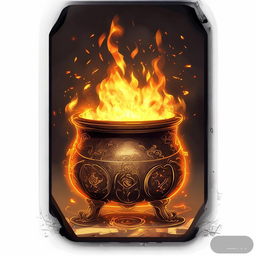
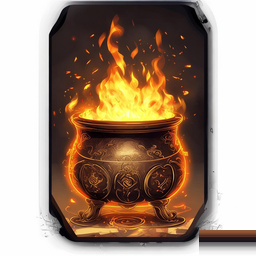
VFX 资源批次：光环/背景/羁绊卡面批量生成 + gen_art 管线调整
- 新增 assets：auras（五体系英雄光环/宠物光环）、bg（战斗背景）、
  bonds 卡面（黑神话/苍炎/风韵等新一批羁绊贴图）
- 更新：遮天天帝/帝鼎卡面、白魇魔召唤贴图（重生成）
- gen_art.py：管线小调（+4/-2）

Changed region(s): [[0.75, 0.875, 1.0, 1.0]]

diff --git a/tools/gen_art.py b/tools/gen_art.py
@@ -163,9 +163,11 @@ def download(url: str, dest: Path) -> None:
         f.write(r.read())
 
 
-# 智谱 CogView 固定在右下角加"AI生成"水印（全图右下 ~12%×4% 区域）。
+# 智谱 CogView 固定在右下角加"AI生成"水印。
 # 水印相对坐标（按图片宽高比例），适配任意分辨率。
-WATERMARK_BOX = (0.846, 0.936, 0.963, 0.970)  # (x0, y0, x1, y1) 比例
+# 2026-11-06 实测：水印样式已变大（灰色胶囊形底衬+文字，约占右下 ~22%×10%），
+# 早期小框 (0.846, 0.936, 0.963, 0.970) 会漏残留，故扩大覆盖到右下角边缘。
+WATERMARK_BOX = (0.78, 0.90, 1.0, 1.0)  # (x0, y0, x1, y1) 比例
 
 
 def remove_watermark(path: Path, box: tuple[float, float, float, float] = WATERMARK_BOX) -> bool:
